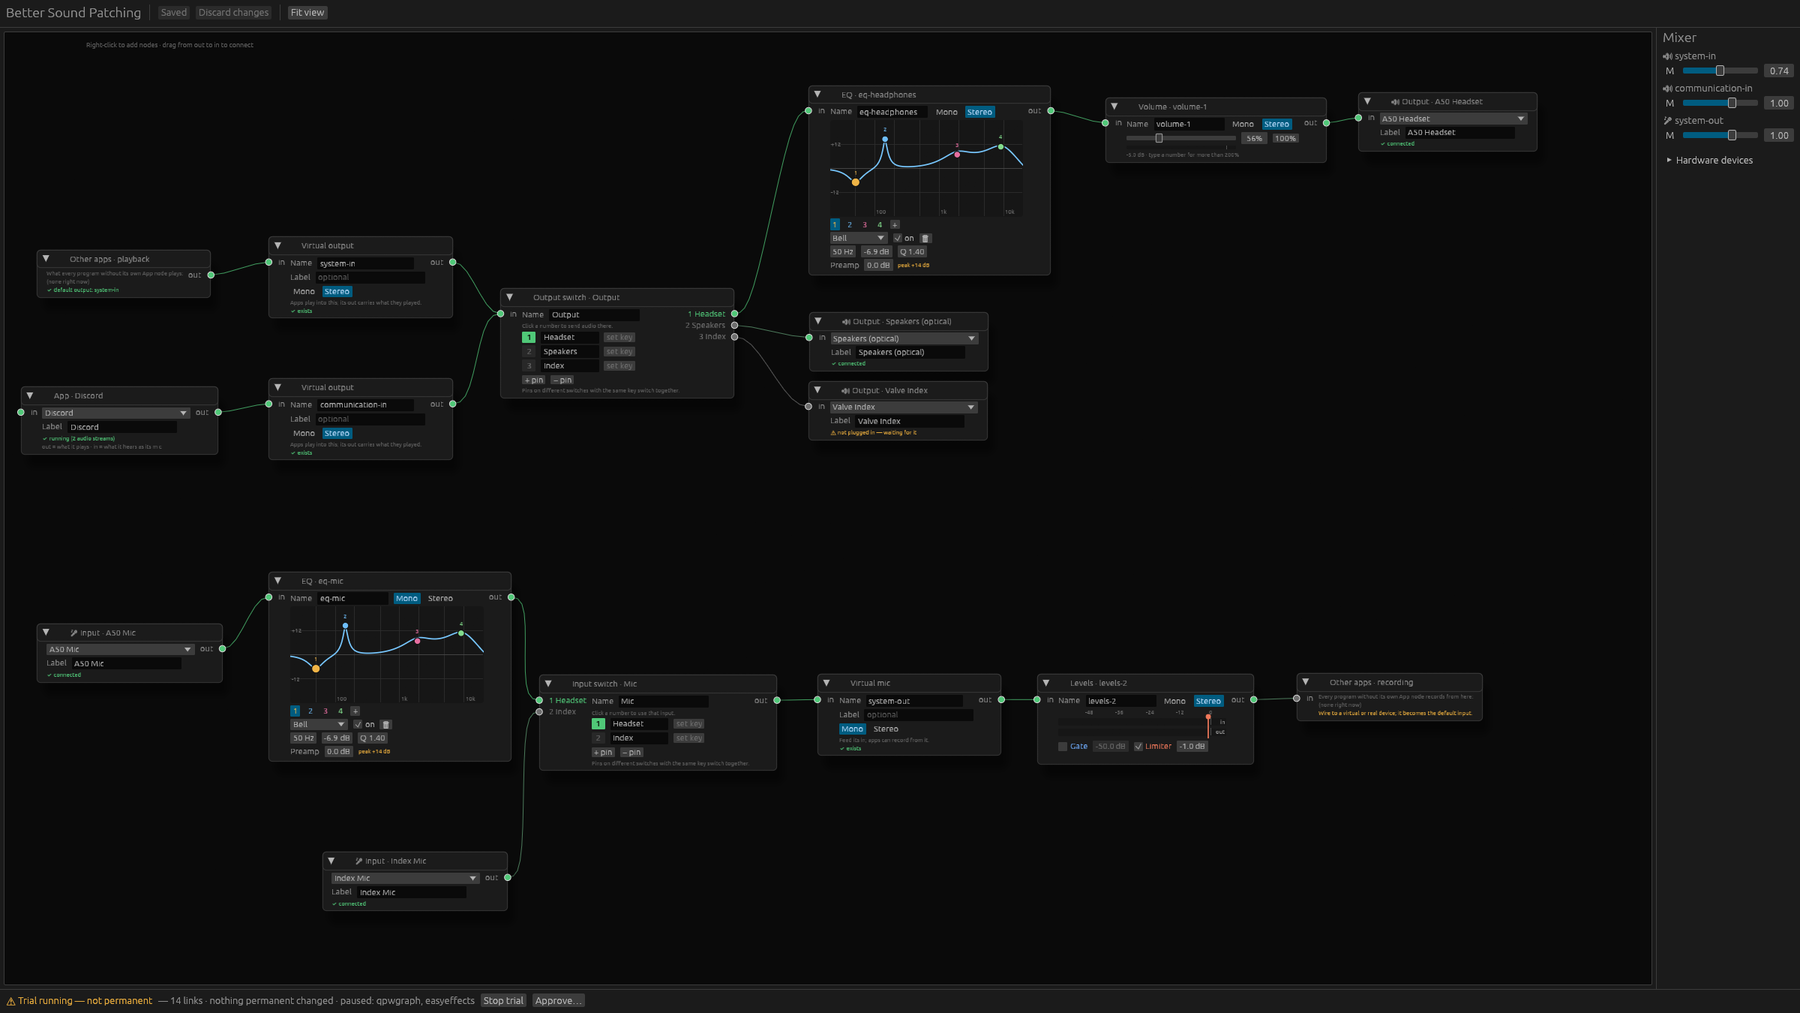
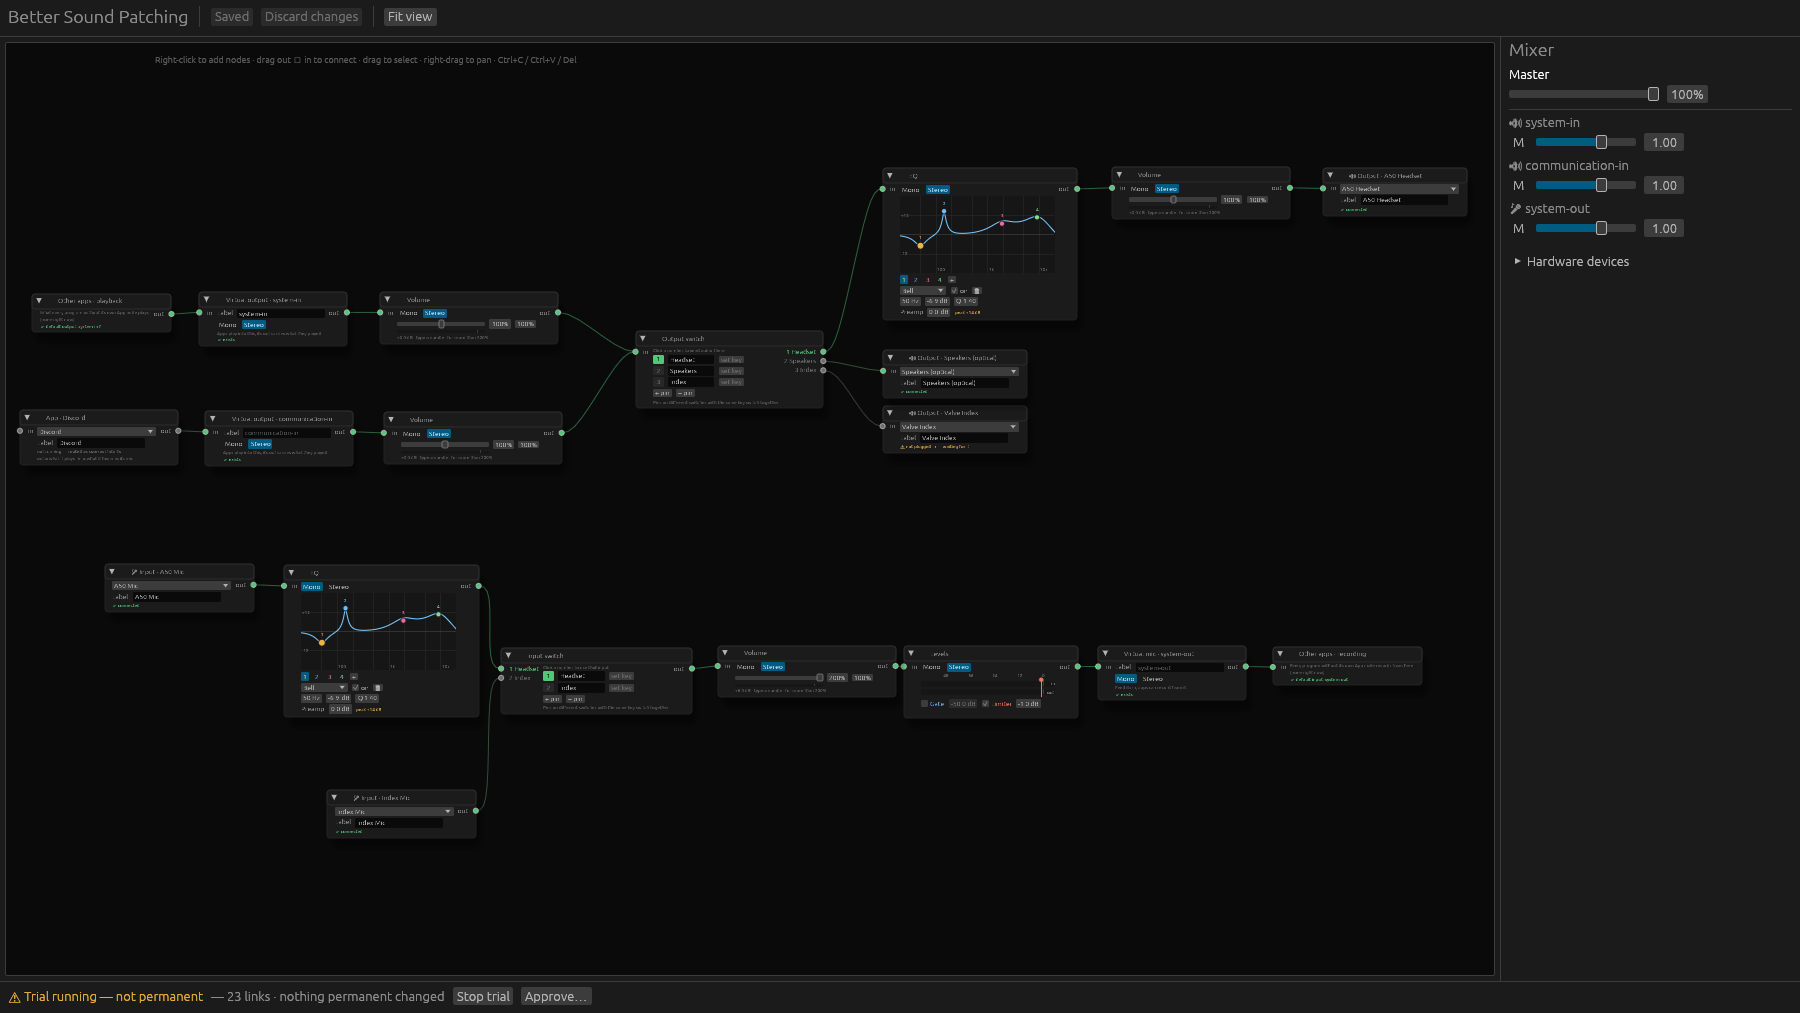
README: master volume, tray, take over, editing; fresh screenshots

diff --git a/README.md b/README.md
@@ -17,7 +17,7 @@ switch from headset to speakers with one key: the routing stays what you drew.
 It is written entirely in Rust with a native GUI. There is no Electron, no web view, and no JavaScript.
 
 <p align="center">
-  <img src="docs/images/editor.png" alt="The editor: programs and virtual devices on the left, EQ and switch nodes in the middle, hardware on the right, with the mixer panel" width="100%">
+  <img src="docs/images/editor.png" alt="The editor: programs and virtual devices on the left, EQ and switch nodes in the middle, hardware on the right, with the mixer and its master volume on the right" width="100%">
 </p>
 
 ## Highlights
@@ -31,9 +31,15 @@ It is written entirely in Rust with a native GUI. There is no Electron, no web v
   together, so one key can move both output and mic to your VR headset.
 - **Built-in processing.** A parametric **EQ** with a draggable curve, a **Levels** node (meters, noise
   gate, limiter) and a **Volume** node all run inside the daemon on PipeWire's realtime thread.
+- **Master volume and a tray icon.** One slider turns everything you hear up or down together, keeping
+  the balance between programs. Scroll over the tray icon to change it; click the icon to open the editor.
+- **Your names, everywhere.** A virtual device's label is the name programs and your desktop's sound
+  settings show, so `system-in` can be "Game & music".
 - **Per-program routing.** Give Discord (or anything else) its own node; every other program follows the
   "Other apps" nodes, which set the system default devices.
 - **Unused hardware stays silent**, like Voicemeeter: nothing reaches a device unless the graph says so.
+- **Takes over your old setup.** Virtual devices your PipeWire config already makes are adopted as they
+  are; one button moves that config aside so this program makes them instead.
 - **Safe to try.** A trial changes nothing permanent. Stop it, or reboot, and your old setup is back.
 
 ## How it works
@@ -46,6 +52,13 @@ The daemon owns everything it creates (links, virtual devices, processing nodes)
 `object.linger = false`, so if it stops or crashes, it all disappears with it. When it lets go of a
 program, it hands that program back to the default device first, so nothing is ever left silent.
 
+Right after each virtual output sits a hidden gain stage: the **master volume**. Moving it changes one
+number on the realtime thread; nothing is relinked, so there are no gaps.
+
+When the default output has to be replaced (renamed, or taken over from your PipeWire config), programs
+are first moved to a silent stand-in, so they never fall back to a real device for a moment, unprocessed
+and possibly far louder than your graph would make them.
+
 ## Nodes
 
 <p align="center">
@@ -54,7 +67,7 @@ program, it hands that program back to the default device first, so nothing is e
 
 | Node | What it does |
 |---|---|
-| **Virtual output / Virtual mic** | A device programs can play into or record from. Created by the daemon. |
+| **Virtual output / Virtual mic** | A device programs can play into or record from. Created by the daemon; its label is the name programs see. |
 | **Input device / Output device** | A real microphone, headset or speaker. Shows whether it's plugged in. |
 | **App** | One program. Its *out* is what it plays, its *in* is what it hears as a microphone. |
 | **Other apps · playback / recording** | Every program without its own App node. Wiring them to a device makes it the system default. |
@@ -63,13 +76,29 @@ program, it hands that program back to the default device first, so nothing is e
 | **Volume** | A 0–200% slider, or type any value up to 1000%. |
 | **Output switch / Input switch** | Numbered pins; exactly one is live. Click it, run `bsp select`, or press its key. |
 
+### Editing
+
+| Action | How |
+|---|---|
+| Add a node | Right-click the background |
+| Connect | Drag from an **out** pin to an **in** pin; right-click a wire to remove it |
+| Select | Click a node, or drag a box on the background (Shift adds, Ctrl removes) |
+| Move | Drag a node; dragging one of several selected nodes moves them all |
+| Pan / zoom | Right- or middle-drag / scroll wheel; **Fit view** shows everything |
+| Copy, cut, paste | Ctrl+C, Ctrl+X, Ctrl+V. Pasted nodes land at the pointer, with their wires, and get free names |
+| Delete | Del |
+
+Copied nodes go to the clipboard as plain text, so you can paste them into another window or keep a
+favourite EQ in a text file.
+
 ## Getting started
 
 ### Requirements
 
 - Linux with **PipeWire** 1.x and **WirePlumber** 0.5
 - **Rust** 1.95 or newer and **clang**, which the PipeWire bindings need to build
-- Optional: a desktop with the XDG GlobalShortcuts portal (KDE Plasma 6, for example) for global keys
+- Optional: a desktop with the XDG GlobalShortcuts portal for global keys, and a system tray
+  (StatusNotifierItem) for the tray icon. KDE Plasma 6 has both.
 
 ### Build
 
@@ -88,7 +117,8 @@ Nothing changes until you ask, and every step can be undone:
 |---|---|---|
 | `bsp` / `bsp plan` | Nothing. The editor and the dry run only read. | — |
 | `bsp trial` (or **Try the new system…**) | Routing follows your graph; qpwgraph and EasyEffects are paused for this session. | `bsp stop`, or reboot |
-| `bsp approve` | Installs `~/.local/bin/bsp` and a systemd user service; moves conflicting autostart entries aside. | `bsp revert` |
+| `bsp approve` | Installs `~/.local/bin/bsp`, a systemd user service (with the tray icon) and a menu entry; moves conflicting autostart entries aside. | `bsp revert` |
+| **Take over…** (after approving) | Moves the PipeWire config that makes your virtual devices into a backup folder; the daemon makes them instead, so their labels become their names. | `bsp revert` puts it back and restarts PipeWire |
 
 ## Command line
 
@@ -111,14 +141,17 @@ Everything lives in `~/.config/better-sound-patching/` as plain TOML, safe to ba
 | File | Contents |
 |---|---|
 | `graph.toml` | The routing graph: nodes, their settings and the wires between them |
-| `state.toml` | Which pin each switch is using |
-| `labels.toml` | Your own names for devices and programs |
+| `state.toml` | Which pin each switch is using, and the master volume |
+| `labels.toml` | Your own names for hardware devices and programs (shown in the editor) |
+| `moved-pipewire-config/` | PipeWire config moved aside by **Take over**, and where it came from |
 
 ## Design notes
 
 - **No JavaScript, no web stack.** GUI: [egui](https://github.com/emilk/egui) with
-  [egui-snarl](https://github.com/zakarumych/egui-snarl). Audio: [pipewire-rs](https://gitlab.freedesktop.org/pipewire/pipewire-rs),
-  plus a small FFI layer for `pw_filter`.
+  [egui-snarl](https://github.com/zakarumych/egui-snarl) (a lightly patched copy in `vendor/`, for
+  click-to-select and easier pin grabbing; see `vendor/egui-snarl/BSP-CHANGES.md`).
+  Audio: [pipewire-rs](https://gitlab.freedesktop.org/pipewire/pipewire-rs), plus a small FFI layer for
+  `pw_filter`. Tray: [ksni](https://github.com/iovxw/ksni).
 - **Pure planning.** The planner turns *graph + live PipeWire state* into the exact set of links that
   should exist. It makes no PipeWire calls, so it is fully unit-tested.
 - **Allocation-free DSP.** EQ biquads run in 64-bit floats; the limiter has an instant attack, so no
